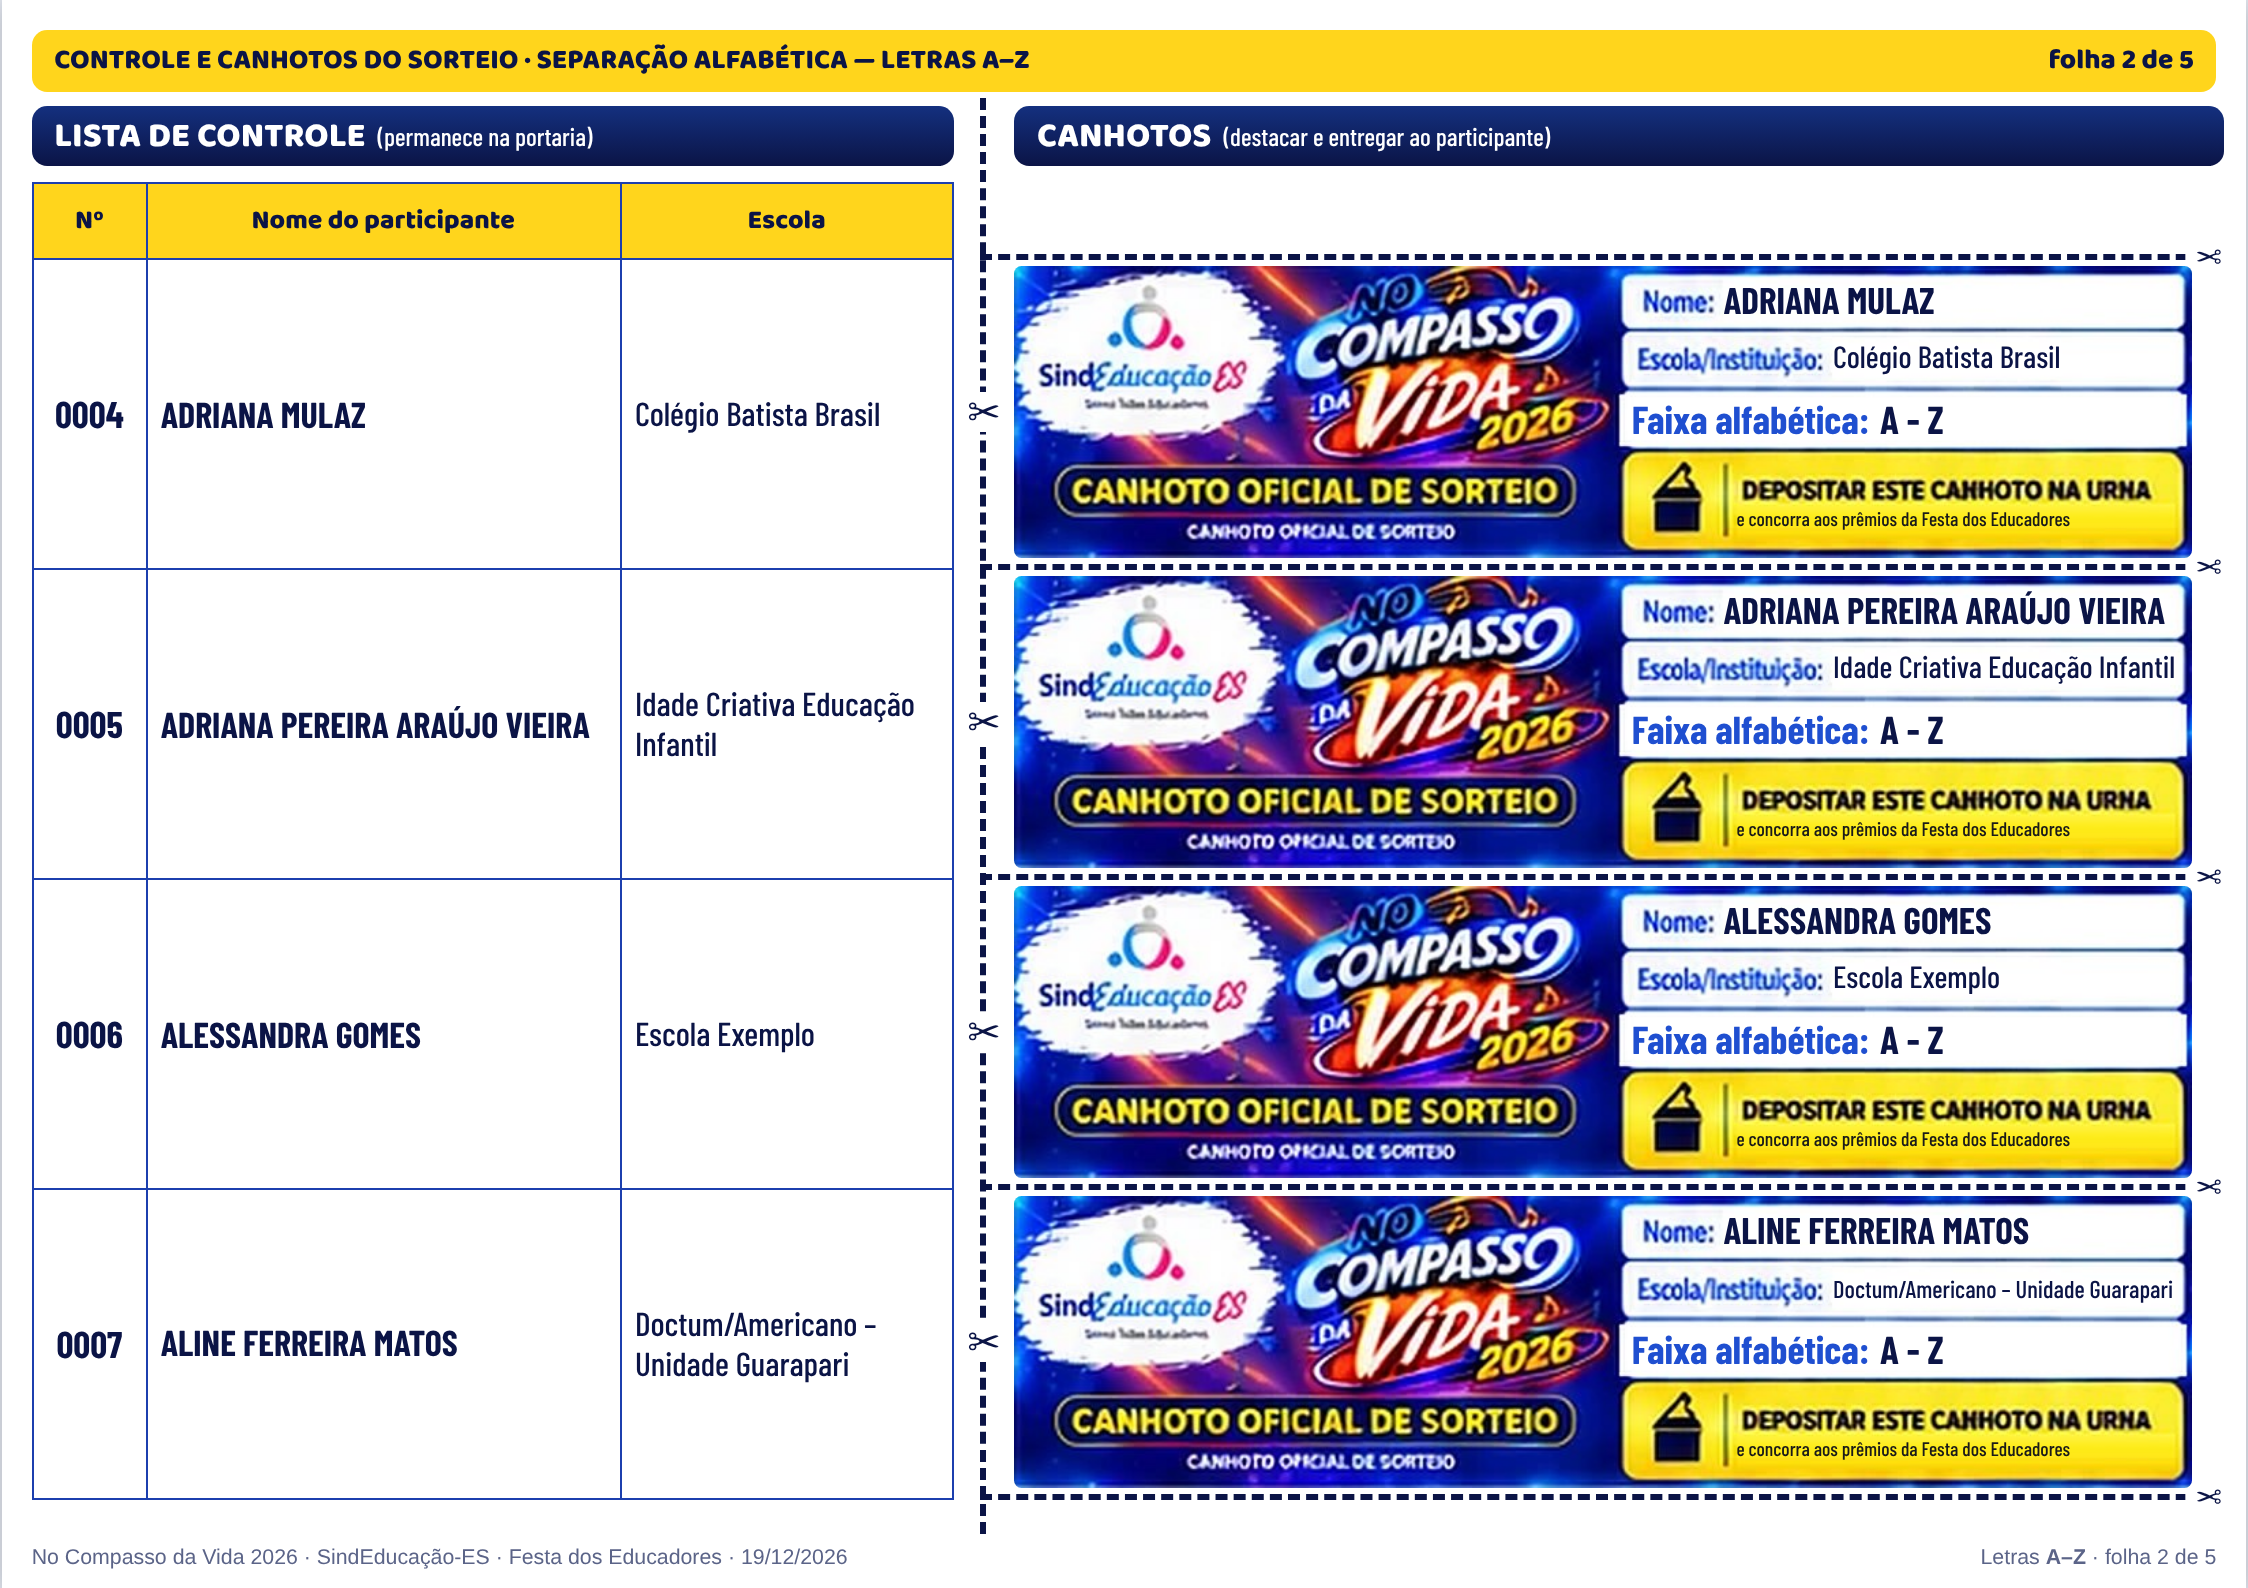
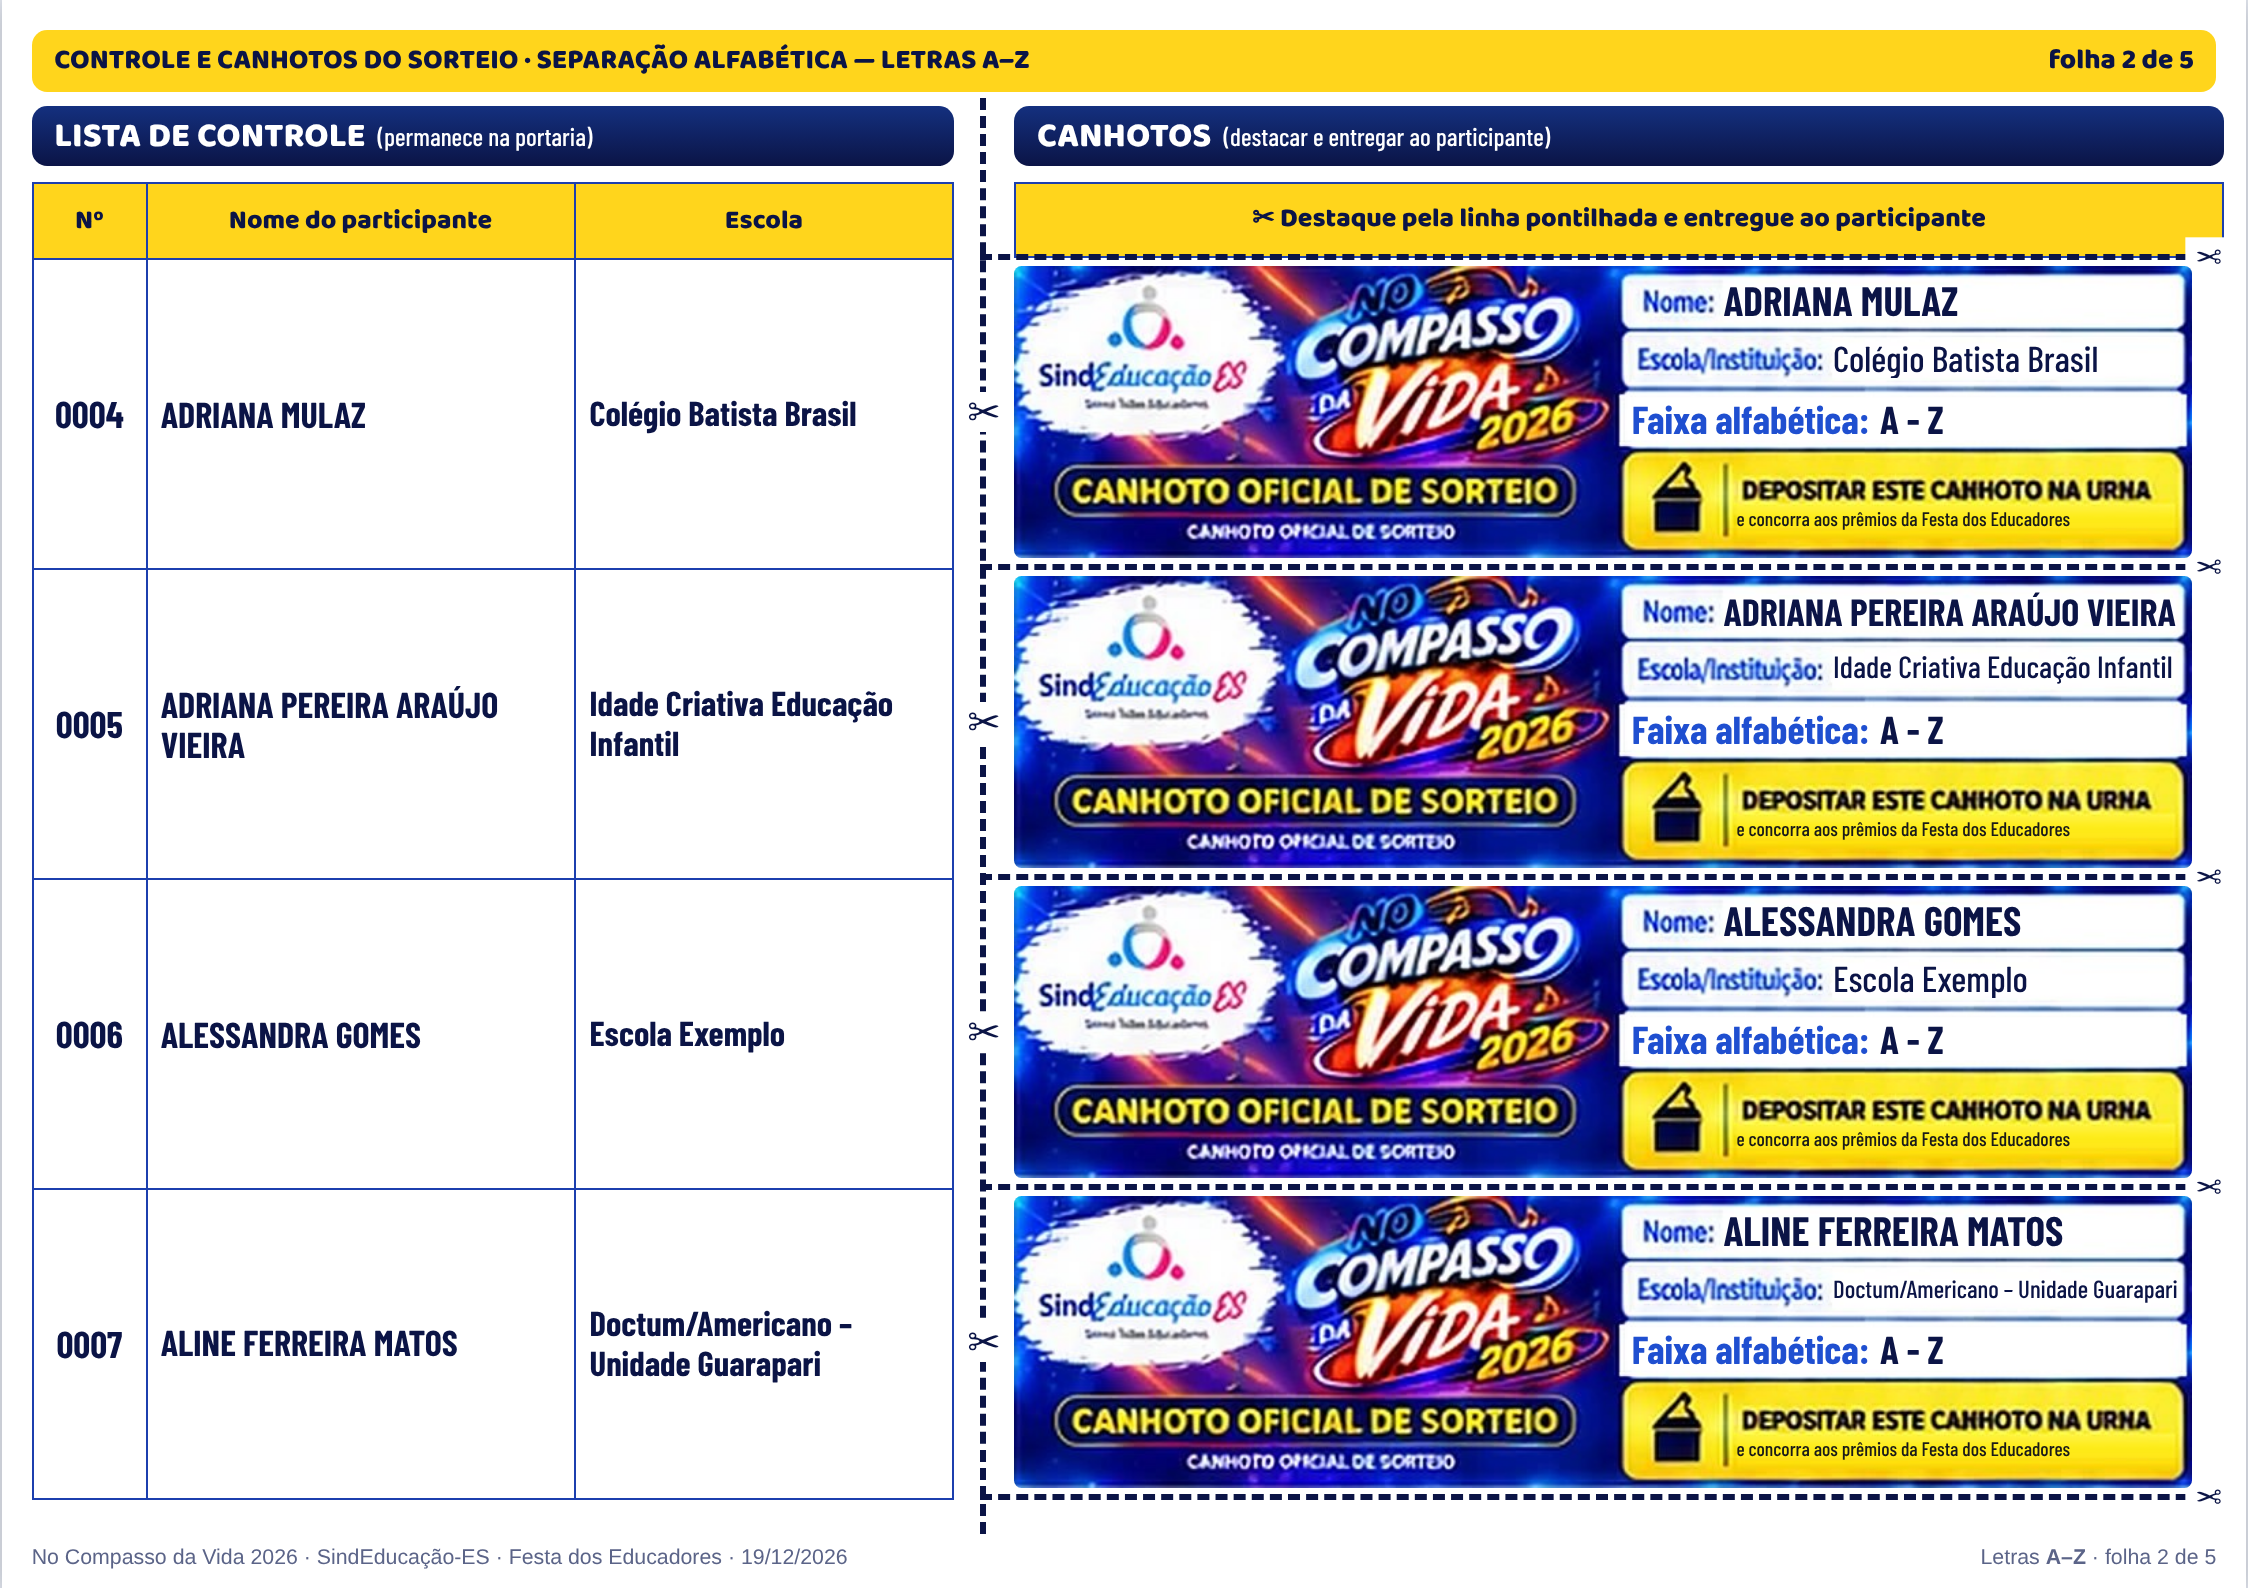
Canhotos (mockup v2): título de ponta a ponta na paisagem, faixa amarela no lugar do vazio acima do 1º canhoto, escola maior na lista e no canhoto
Pedidos do usuário (04/11/2026): 'o cabeçalho na folha inteira' e as duas setas
na folha (o vazio acima do 1º canhoto e a escola pequena). Arte nítida no
centro com o fundo nas cores dela até as bordas (sem esticar o logo); coluna da
escola mais larga e em 13 pt; no canhoto, nome e escola maiores (o ajuste
encolhe quando não cabe). t205 (45). NÃO publicado — aguardando aprovação.

Claude-Session: https://claude.ai/code/session_013fKgB93ccCyXawURWLtxVF

diff --git a/CompassoCanhotos.html b/CompassoCanhotos.html
@@ -317,7 +317,7 @@
       ? { o:'retrato', W:210, H:297, FIM:289, bnEsc:1, bnLeft:0, cabPrim:73, topoPrim:83, cabDem:14, topoDem:24,
           listaW:78, colN:12, colEs:27, corteX:85.5, canhL:90, canhWmax:116, fNm:10.5, fEs:10, fN:12 }
       : { o:'paisagem', W:297, H:210, FIM:202, bnEsc:0.8, bnLeft:(297-210*0.8)/2, cabPrim:59, topoPrim:69, cabDem:14, topoDem:24,
-          listaW:122, colN:15, colEs:44, corteX:129.5, canhL:134, canhWmax:158, fNm:13.5, fEs:12.5, fN:14 };
+          listaW:122, colN:15, colEs:50, corteX:129.5, canhL:134, canhWmax:158, fNm:13.5, fEs:13, fN:14 };
     G.altLinha=(G.FIM-G.topoPrim-ALT_TH)/pf;
     G.nPrim=pf;
     G.nDem=Math.max(pf, Math.floor((G.FIM-G.topoDem-ALT_TH)/G.altLinha+1e-6));
@@ -332,8 +332,11 @@
     return pags.length?pags:[[]];
   }
   var CAMPOS={
-    nome:  {l:60.2, t:3.7,  w:38.6, h:15.9, k:.36},
-    escola:{l:69.5, t:24.3, w:29.2, h:14.0, k:.30},
+    /* k = tamanho da letra pela altura do canhoto. 04/11/2026 ("aumentar a
+       fonte do nome e da escola"): .36→.40 e .30→.35. O ajustar() encolhe
+       sozinho quando o texto não cabe na caixa. */
+    nome:  {l:60.2, t:3.7,  w:38.6, h:15.9, k:.40},
+    escola:{l:69.5, t:24.3, w:29.2, h:14.0, k:.35},
     /* A caixa do número saiu do canhoto em 01/10/2026 ("o número não
        deveria estar no canhoto"): a linha inteira é da faixa. */
     faixa: {l:52.4, t:44.9, w:46.2, h:15.0, k:.38},
@@ -383,7 +386,8 @@
     /* A faixa do título (banner) só na 1ª folha da faixa de letras; nas
        seguintes, um cabeçalho fino que ainda diz as letras e a folha. */
     var topoPag = prim
-      ? '<div class="bn-wrap"><div class="canh-banner bn"></div>'+
+      ? (G.o==='paisagem' ? '<div class="bn-fundo"></div>' : '')+
+        '<div class="bn-wrap"><div class="canh-banner bn"></div>'+
           '<div class="bn-tit">CONTROLE E CANHOTOS DO SORTEIO</div>'+
           '<div class="bn-sub">SEPARAÇÃO ALFABÉTICA — LETRAS <b>'+esc(f.rotulo)+'</b></div></div>'
       : '<div class="cont"><span>CONTROLE E CANHOTOS DO SORTEIO · SEPARAÇÃO ALFABÉTICA — LETRAS <b>'+esc(f.rotulo)+'</b></span>'+
@@ -395,6 +399,9 @@
         '<tr style="height:'+ALT_TH+'mm"><th>Nº</th><th>Nome do participante</th><th>Escola</th></tr>'+
         linhas+
       '</table>'+
+      /* A faixa amarela do lado dos canhotos, na altura do cabeçalho da
+         tabela (04/11/2026: o espaço vazio acima do 1º canhoto). */
+      '<div class="th-dir" style="top:'+topoTab+'mm;height:'+ALT_TH+'mm">✂ Destaque pela linha pontilhada e entregue ao participante</div>'+
       '<div class="corte" style="top:'+(cabTop-1)+'mm"></div>'+cortes(n, G, topoTab)+canhotos+
       '<div class="rod"><span>No Compasso da Vida 2026 · SindEducação-ES · Festa dos Educadores · 19/12/2026</span>'+
         '<span>Letras <b>'+esc(f.rotulo)+'</b> · folha '+(idx+1)+' de '+total+'</span></div>'+
@@ -408,6 +415,13 @@
     '.folha{width:'+G.W+'mm;height:'+G.H+'mm;margin:10mm auto;background:#fff;position:relative;overflow:hidden;box-shadow:0 2px 12px rgba(0,0,0,.2)}'+
     '.bn-wrap{position:absolute;left:'+G.bnLeft.toFixed(2)+'mm;top:0;width:210mm;height:70mm;transform:scale('+G.bnEsc+');transform-origin:top left}'+
     '.bn{position:absolute;left:0;top:0;width:210mm;height:70mm;background-size:100% 100%}'+
+    /* "O cabeçalho na folha inteira" (04/11/2026): na paisagem a arte fica
+       nítida no centro e os lados são o próprio fundo dela, ampliado e
+       desfocado — de ponta a ponta, sem esticar o logo nem as letras. */
+    '.bn-fundo{position:absolute;left:0;top:0;width:'+G.W+'mm;height:'+(70*G.bnEsc).toFixed(2)+'mm;background-image:none!important;'+
+      'background:linear-gradient(90deg,#0b1a78 0%,#1b2a9e 22%,#2a1a8c 50%,#3b1384 78%,#2a0d6b 100%)!important}'+
+    (G.o==='paisagem' ? '.bn-wrap{-webkit-mask-image:linear-gradient(90deg,transparent 0,#000 7%,#000 93%,transparent 100%);'+
+      'mask-image:linear-gradient(90deg,transparent 0,#000 7%,#000 93%,transparent 100%)}' : '')+
     '.bn-tit{position:absolute;left:32.8mm;top:39.9mm;width:144.4mm;height:8.4mm;display:flex;align-items:center;justify-content:center;'+
       'font-family:"Baloo 2",Arial Black,sans-serif;font-weight:800;font-size:19pt;color:#0b1446;letter-spacing:-.01em;line-height:1}'+
     '.bn-sub{position:absolute;left:47.8mm;top:51.1mm;width:114.4mm;height:5.2mm;display:flex;align-items:center;justify-content:center;gap:1.6mm;'+
@@ -424,7 +438,9 @@
     'td{border:.45mm solid #1c3fae;padding:0 1.8mm;vertical-align:middle;overflow:hidden}'+
     'td.n{text-align:center;font-weight:700;font-size:'+G.fN+'pt;padding:0}'+
     'td.nm{font-weight:700;font-size:'+G.fNm+'pt;line-height:1.12;text-transform:uppercase}'+
-    'td.es{font-weight:500;font-size:'+G.fEs+'pt;line-height:1.15}'+
+    'td.es{font-weight:600;font-size:'+G.fEs+'pt;line-height:1.15}'+
+    '.th-dir{position:absolute;left:'+G.canhL+'mm;right:3mm;background:#ffd51c;border:.45mm solid #1c3fae;display:flex;align-items:center;'+
+      'justify-content:center;font-family:"Baloo 2",Arial Black,sans-serif;font-weight:800;font-size:10pt;color:#0b1446}'+
     'tr.vz td{background:repeating-linear-gradient(135deg,#fff 0 2mm,#f2f4fa 2mm 4mm)}'+
     '.corte{position:absolute;left:'+G.corteX+'mm;bottom:'+(G.H-G.FIM-1)+'mm;border-left:1mm dashed #0b1446}'+
     '.ch{position:absolute;left:'+G.corteX+'mm;right:3mm;border-top:.8mm dashed #0b1446}'+
